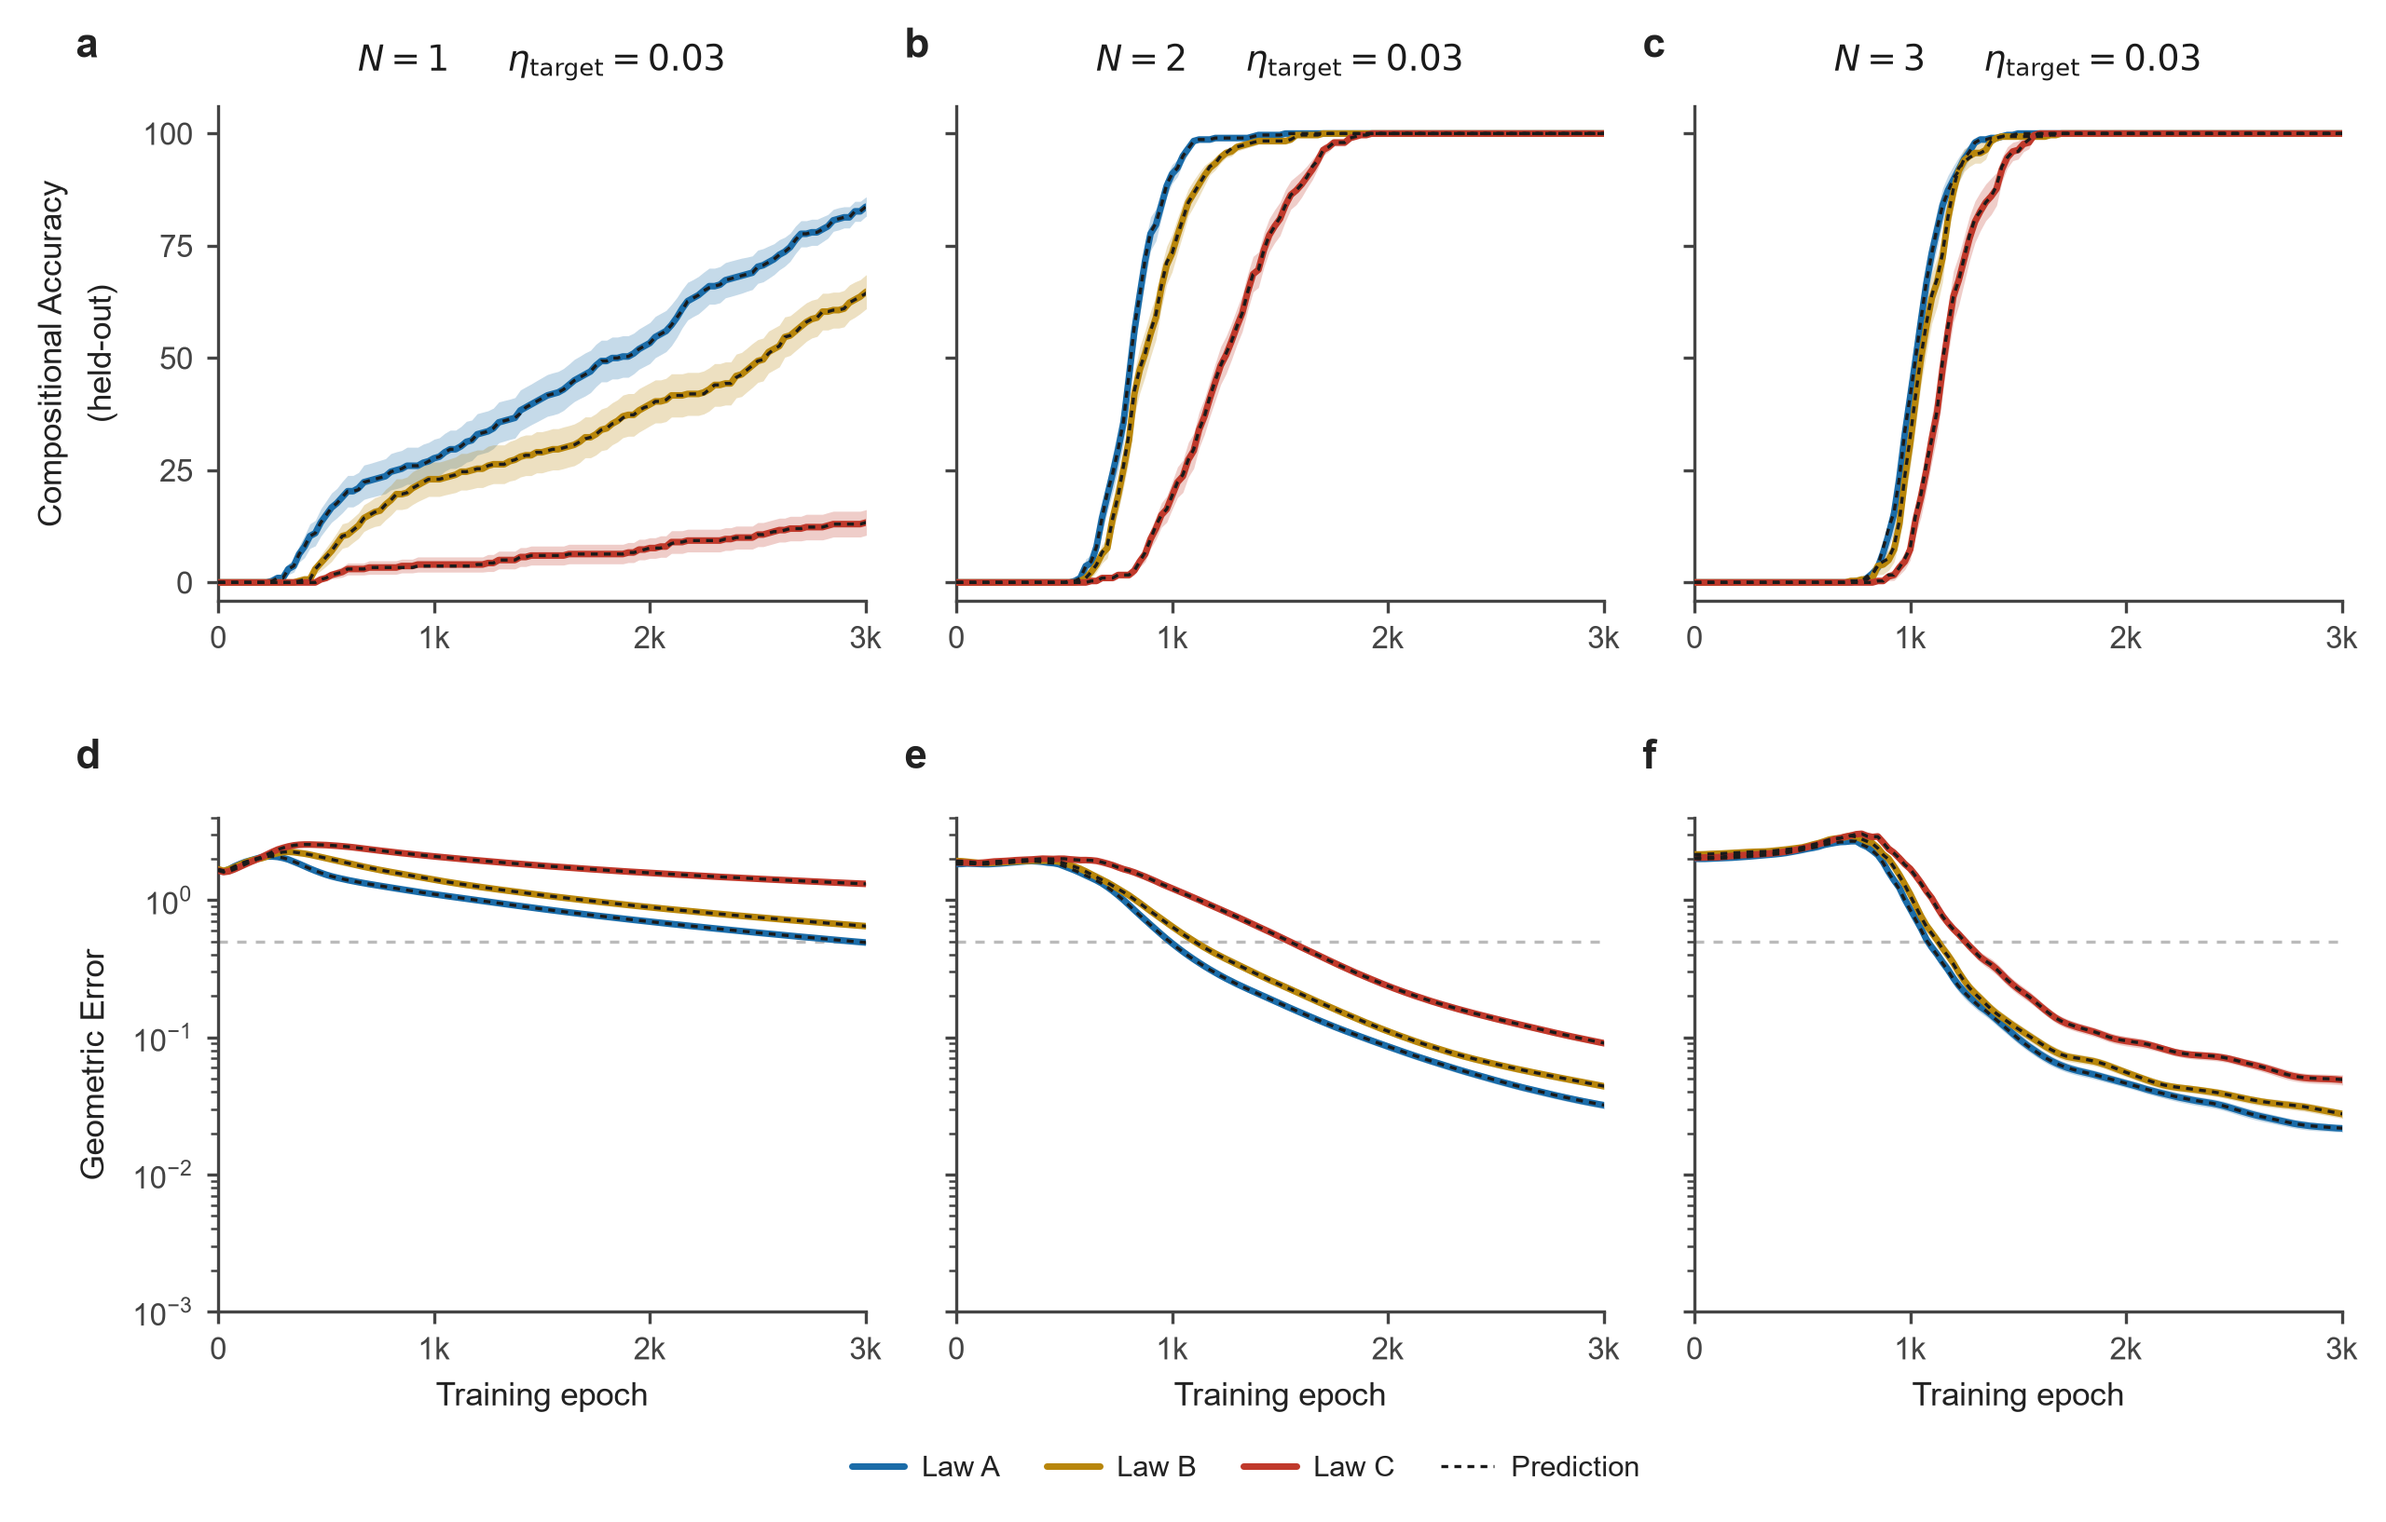
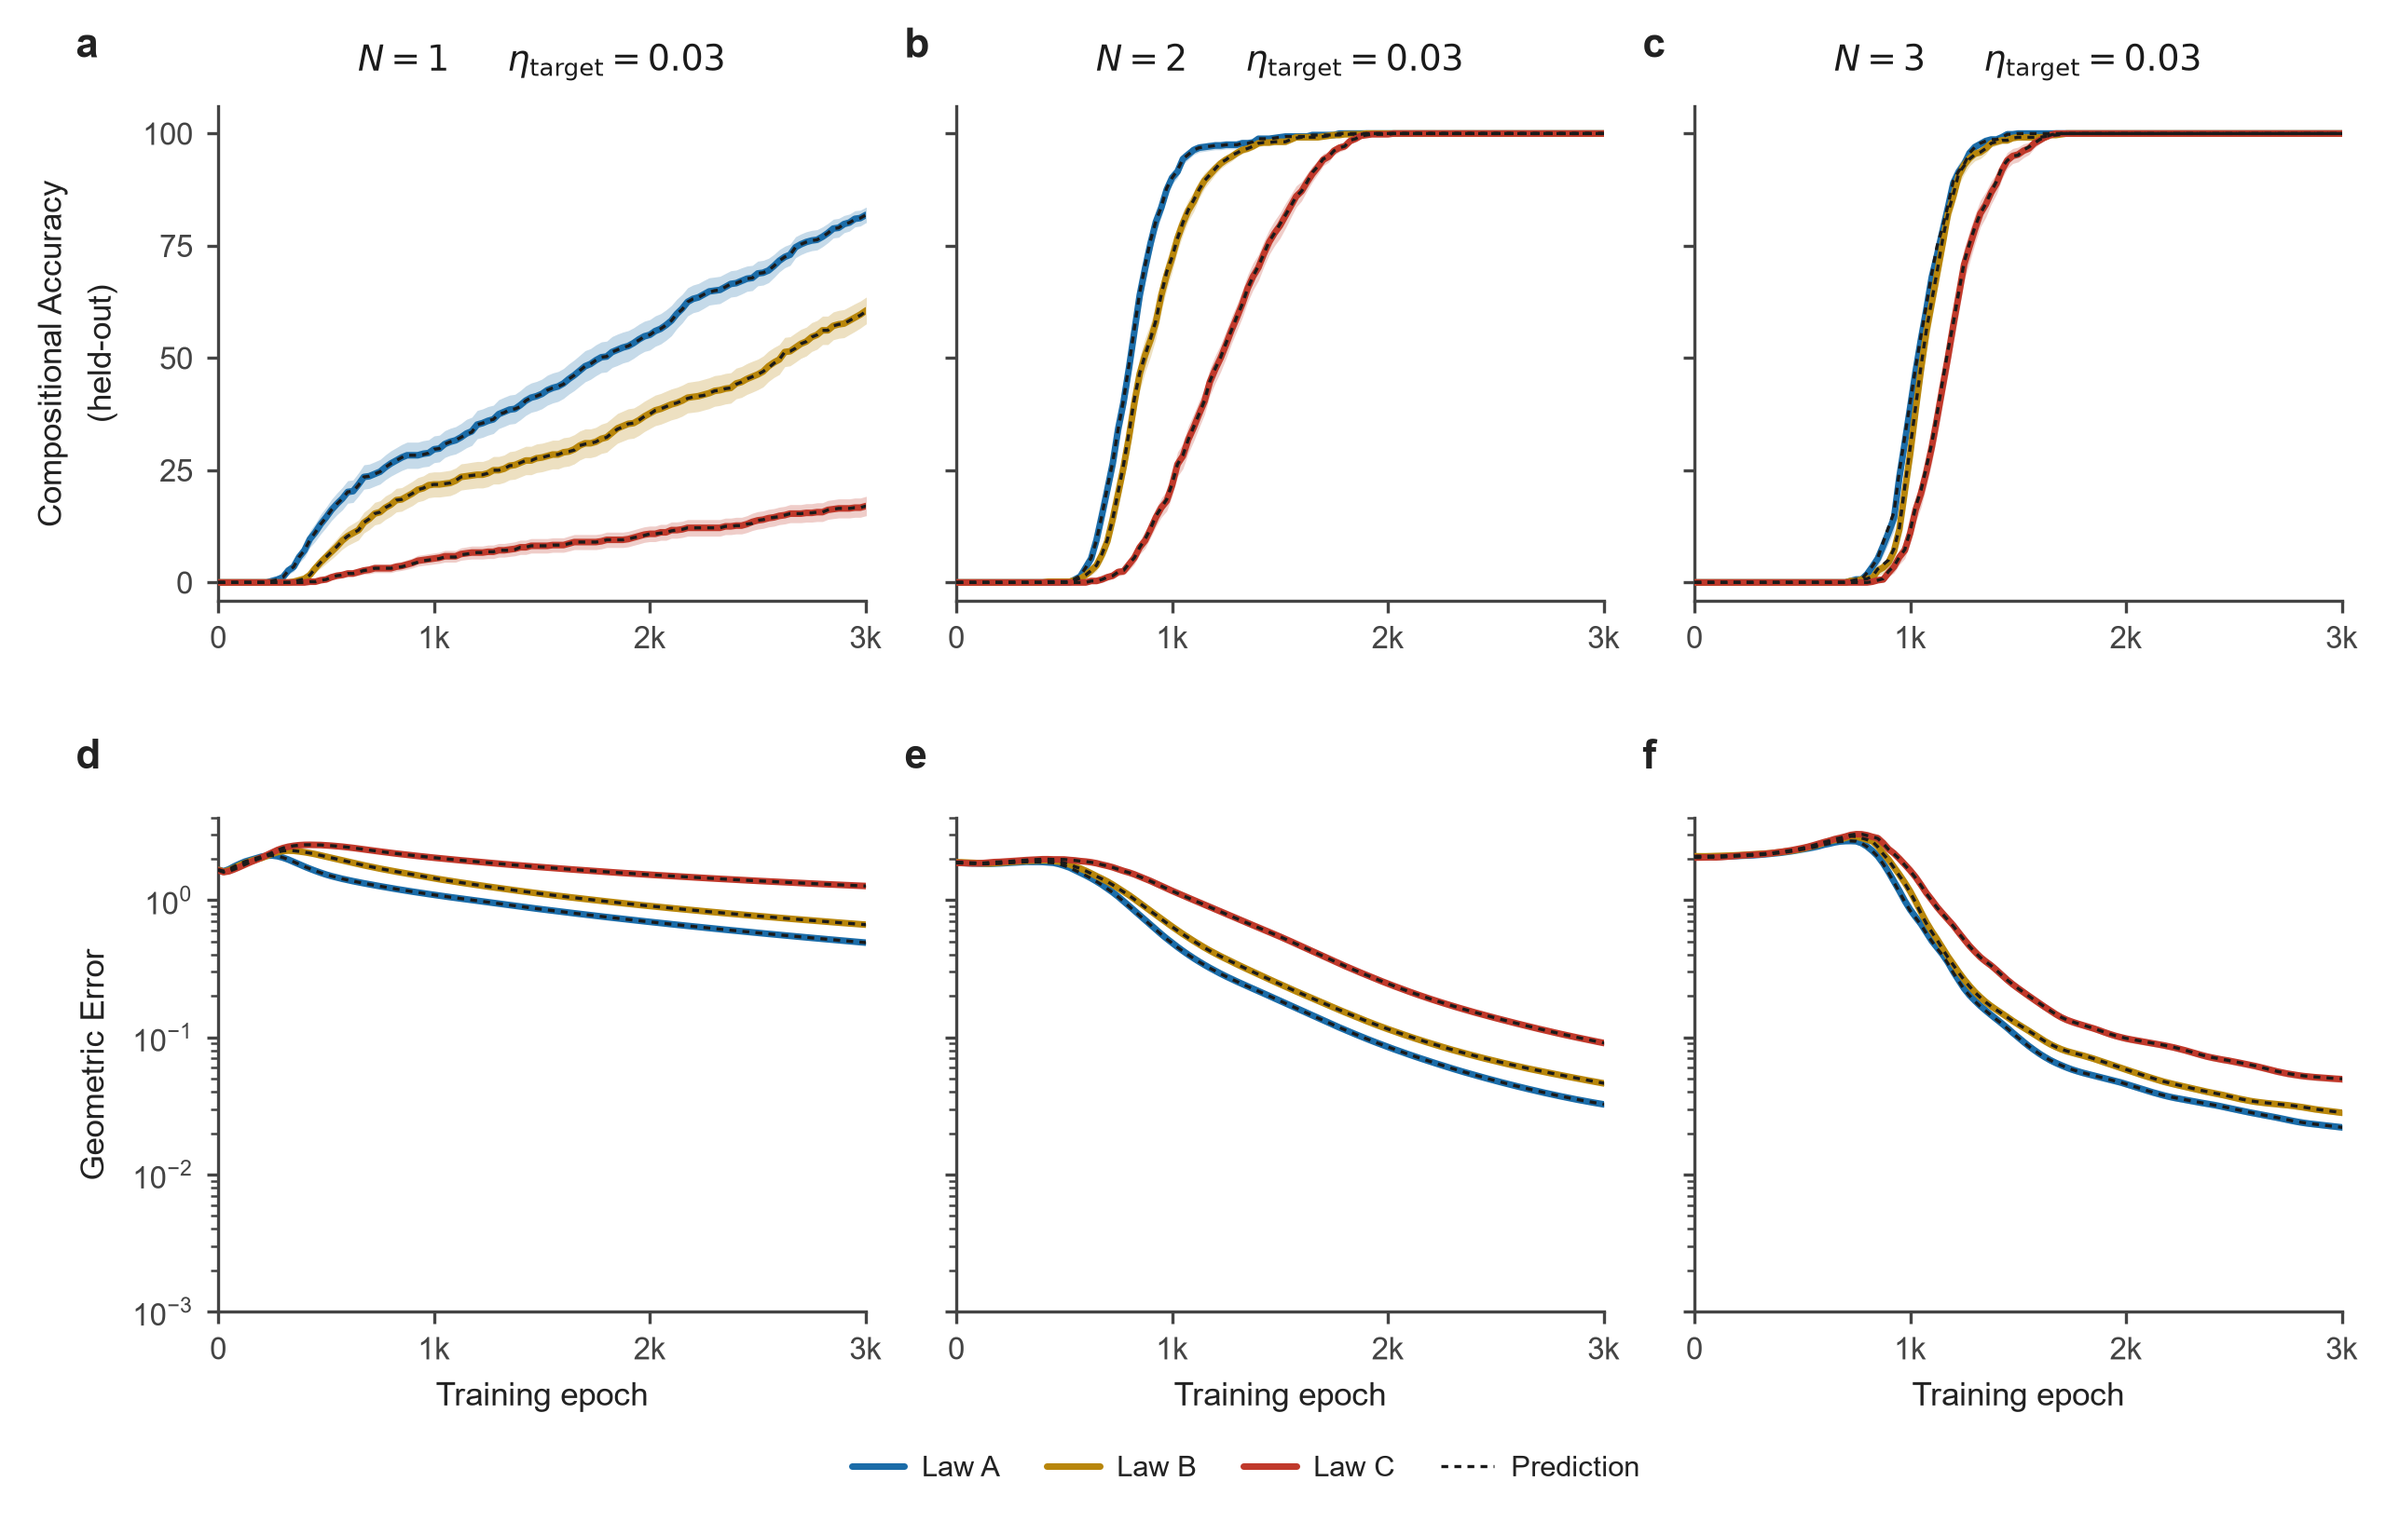
feat: completed structural final edits for F1, F2, and F3

diff --git a/code/fig3.py b/code/fig3.py
@@ -112,6 +112,26 @@ def ticks_for(hi):
                   for v in vals]
 
 
+def scorable(rec):
+    """Has this world enough wrong at the switch to score anything?
+
+    The behavioural curve is corrected against what the arm scores at the
+    switch, so a world where the undetermined offset already happens to answer
+    every comparison correctly divides by zero and contributes a curve of NaN.
+    One world in a hundred does exactly that at depth 3, and because a NaN
+    propagates through the mean it removed the whole depth-3 curve rather than
+    one world's contribution to it.
+
+    Two items, not one: over a single remaining query the correction is again
+    degenerate.  The same rule is applied in Figure 2 for the same reason.
+    Nothing else comes close here -- the next world has 53 of 80 still wrong.
+    """
+    d = rec["arms"]["insert"]["net"]
+    ep = np.array(d["epochs"], float) - rec["t_switch"]
+    h = np.array(d["hits"]["cross"], bool)[int(np.argmin(np.abs(ep)))]
+    return int((~h).sum()) >= 2
+
+
 def after(rec, arm, src, key, rescale=False):
     """One arm's series, on an axis of epochs since the linking fact.
 
@@ -144,12 +164,18 @@ def after(rec, arm, src, key, rescale=False):
     return ep[m], v[m]
 
 
-def main(sub="f3", out="fig3_integration.png"):
+def main(sub="f3_lr0p003", out="fig3_eta0p003.png"):
     """`sub` is the results sub-directory, so a run at another step size can be
-    drawn with the same code into its own file."""
+    drawn with the same code into its own file.
+
+    The default is the published set: twenty worlds at the rate the figure uses.
+    The locked-rate directory it used to point at is gone, and pointing a
+    default at a directory that no longer exists produces an empty figure
+    rather than an error, which is the sort of thing that survives to a draft.
+    """
     fig, axes = plt.subplots(2, 3, figsize=(9.8, 5.6))
     fig.subplots_adjust(wspace=0.14, hspace=0.44)
-    npairs, lrt = 80, BASE_RATE
+    lrt = BASE_RATE
 
     for col, depth in enumerate(DEPTHS):
         files = sorted(glob.glob(os.path.join(RESULTS, sub,
@@ -159,7 +185,12 @@ def main(sub="f3", out="fig3_integration.png"):
                 axes[row][col].set_visible(False)
             continue
         recs = [json.load(open(f)) for f in files]
-        npairs, lrt = recs[0]["n_pairs"], recs[0]["lr_target"]
+        keep = [r for r in recs if scorable(r)]
+        print("  N=%d  %d worlds%s" % (depth, len(keep),
+              "" if len(keep) == len(recs)
+              else ", %d dropped as unscorable" % (len(recs) - len(keep))))
+        recs = keep
+        lrt = recs[0]["lr_target"]
         xhi = WINDOW * scale_of(recs[0])
         xt = ticks_for(xhi)
 
@@ -191,15 +222,12 @@ def main(sub="f3", out="fig3_integration.png"):
                 ax.set_yscale("log")
                 # the depth 3 control spikes to about 100 spacings early on,
                 # so the ceiling has to clear that; the floor is the smallest
-                # value any arm reaches.  The reference is ONE candidate
-                # spacing, the measured retrieval boundary: pooled over every
-                # item and evaluation, retrieval is 100% below it and falls
-                # away above it, and the epoch at which the mean error crosses
-                # it is the epoch the row above reaches ceiling, at all three
-                # depths.  That is what links the two rows.
+                # value any arm reaches.  No reference line: retrieval is 100%
+                # below about one candidate spacing and falls away above it
+                # (tests/check_readout.py), but where exactly to draw the line
+                # inside that transition is a choice, and a dashed rule invites
+                # a reader to treat the choice as a result.
                 ax.set_ylim(2e-3, 150)
-                ax.axhline(1.0, color="#bbbbbb", lw=0.8, ls=(0, (3, 3)),
-                           zorder=1)
                 ax.set_xlabel("Epochs since the linking fact")
             if col:
                 ax.set_yticklabels([])
@@ -208,8 +236,6 @@ def main(sub="f3", out="fig3_integration.png"):
             panel(ax, "abcdef"[row * 3 + col],
                   dx=-0.22 if col == 0 else -0.08, dy=1.16)
 
-    axes[0][0].set_ylabel("Cross-structure comparisons\nstably resolved  "
-                          "(%% of %d)" % npairs, linespacing=1.6)
     for arm, c, lab in ARMS:
         axes[0][0].plot([], [], color=c, lw=1.8, label=lab)
     # "Prediction" alone.  That it carries no fitted parameters is the whole

diff --git a/code/fig2.py b/code/fig2.py
@@ -25,7 +25,6 @@ import _paths  # noqa: F401
 import matplotlib.pyplot as plt
 import numpy as np
 from _paths import RESULTS, figure
-from relspec.config import DEFAULT as S
 from relspec.measure import resolved
 from style import DARK, panel
 
@@ -212,9 +211,11 @@ def main():
                         ha="center", va="bottom", color=DARK)
             else:
                 ax.set_yscale("log")
+                # No reference line.  Retrieval is reliable well below one
+                # candidate spacing and falls away above it, but where inside
+                # that transition to draw a rule is a choice, and a dashed line
+                # invites a reader to treat the choice as a result.
                 ax.set_ylim(1e-3, 6)
-                ax.axhline(S.tau, color="#bbbbbb", lw=0.8, ls=(0, (3, 3)),
-                           zorder=1)
                 ax.set_xlabel("Epochs since the bridging fact")
             if col:
                 ax.set_yticklabels([])

diff --git a/code/fig1.py b/code/fig1.py
@@ -181,9 +181,11 @@ def main(worlds=None, out="fig1_emergence.png", laws=None, band=True):
                         ha="center", va="bottom", color=DARK)
             else:
                 ax.set_yscale("log")
+                # No reference line.  Retrieval is reliable well below one
+                # candidate spacing and falls away above it, but where inside
+                # that transition to draw a rule is a choice, and a dashed line
+                # invites a reader to treat the choice as a result.
                 ax.set_ylim(1e-3, 4)
-                ax.axhline(S.tau, color="#bbbbbb", lw=0.8, ls=(0, (3, 3)),
-                           zorder=1)
                 ax.set_xlabel("Training epoch")
             if col:
                 ax.set_yticklabels([])
